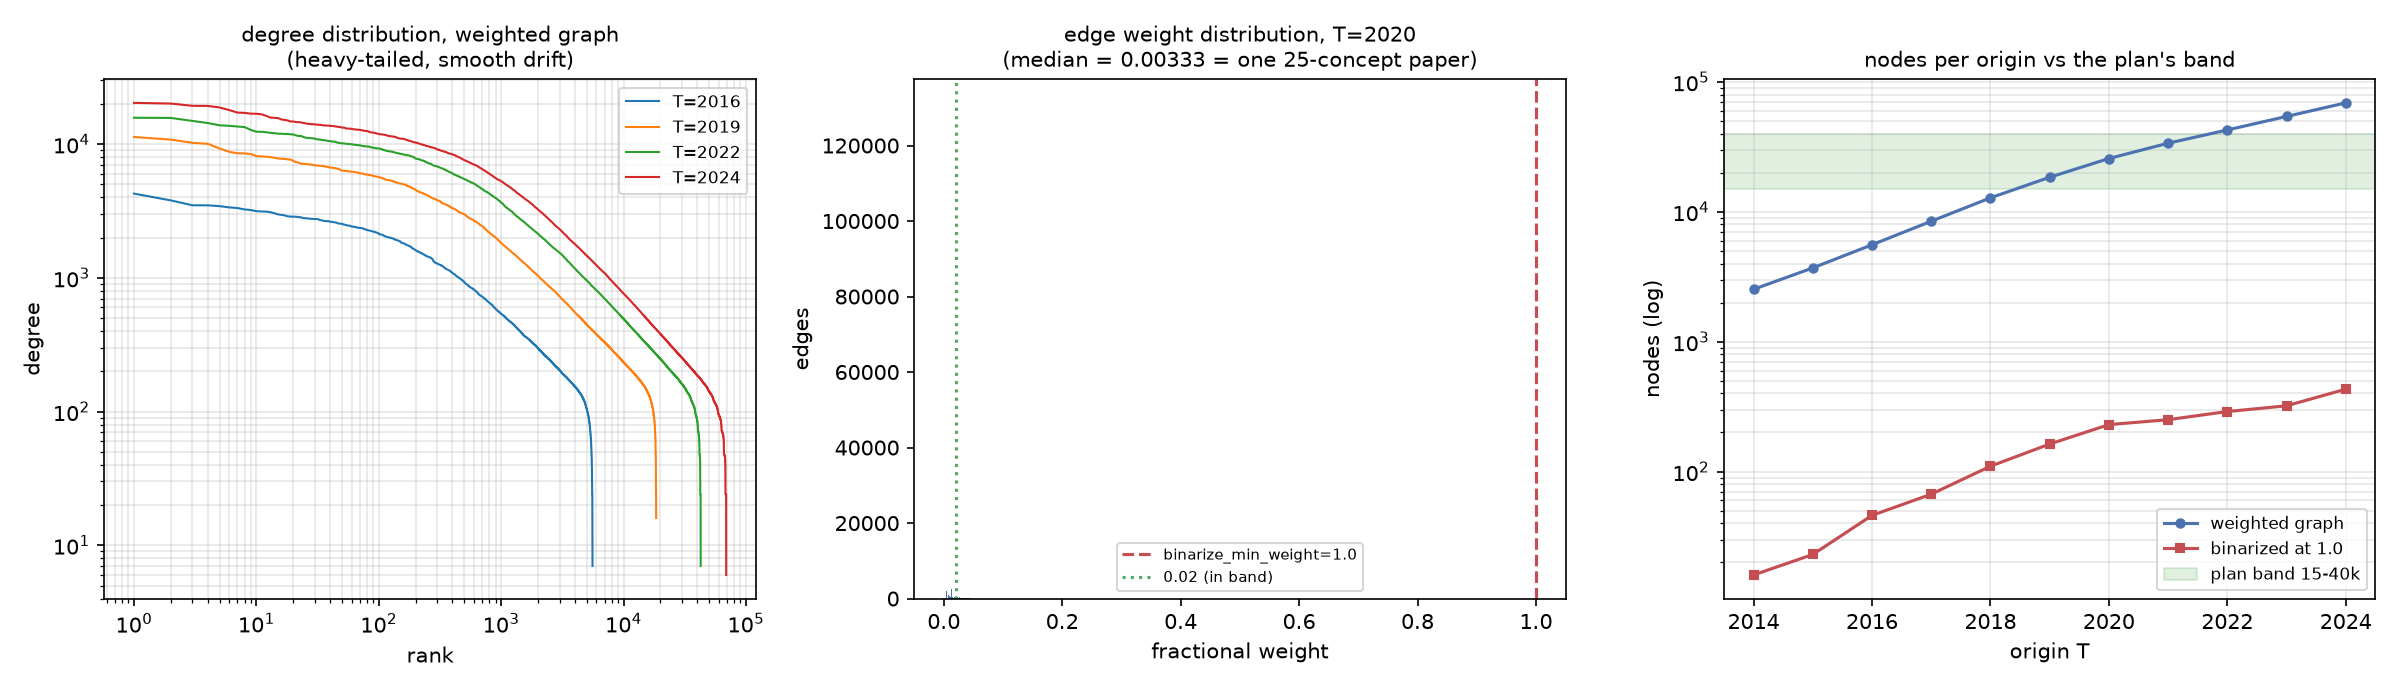
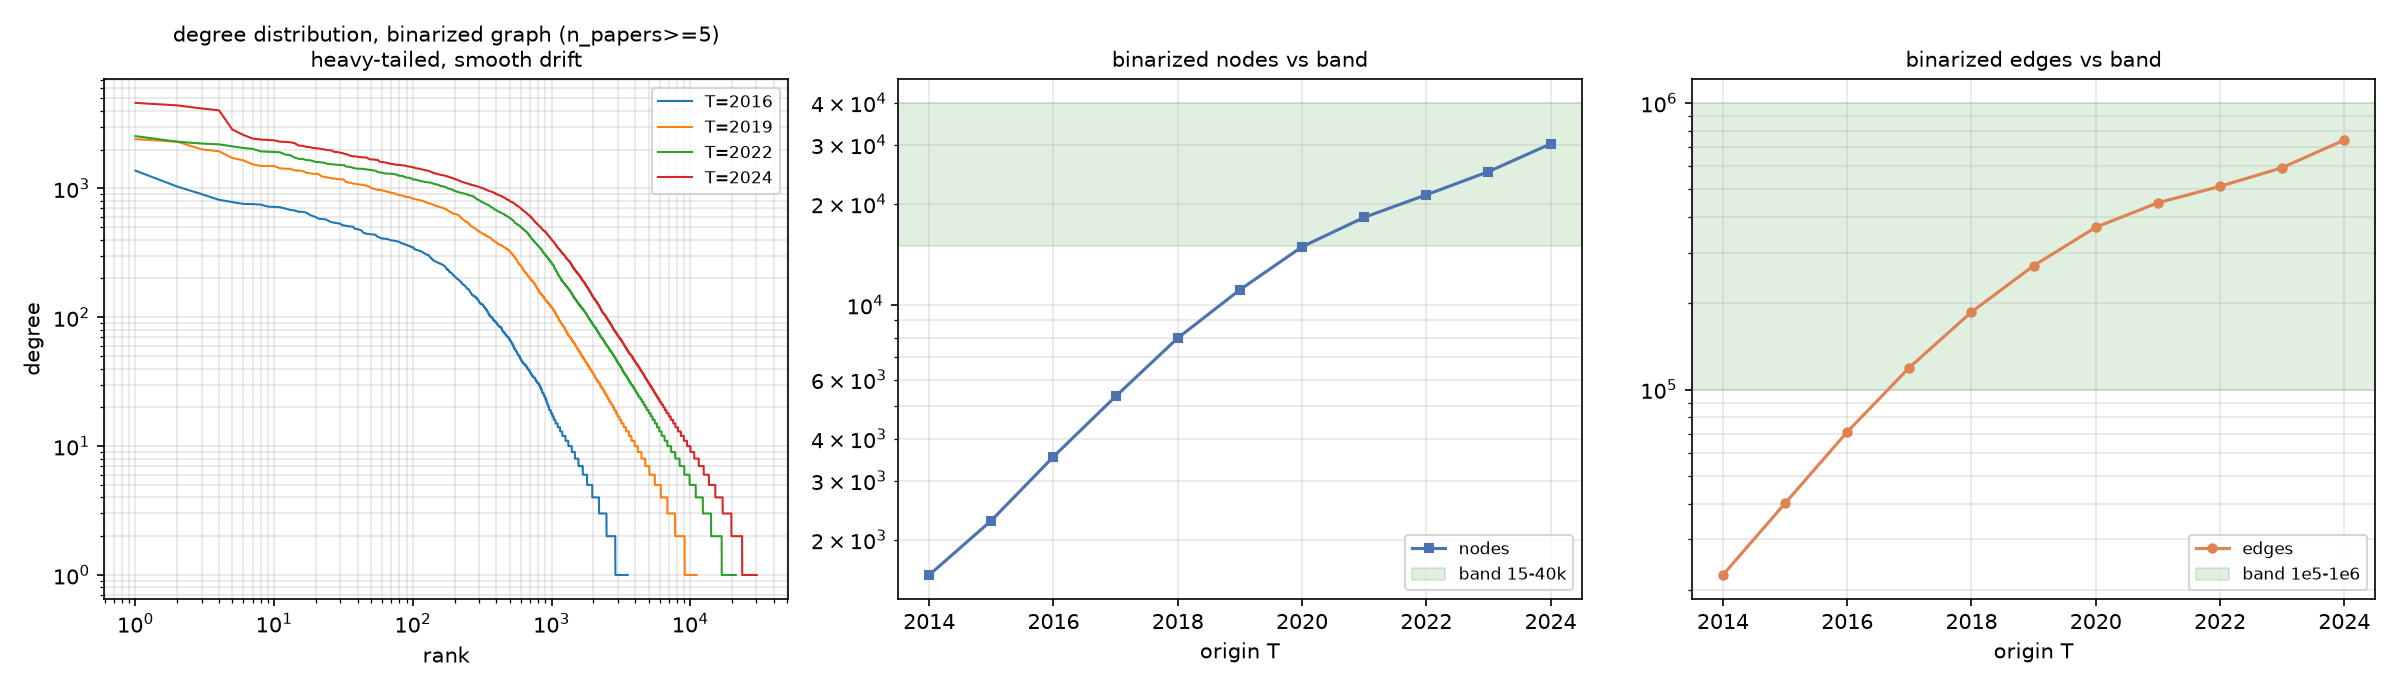
Apply Phase 5 gate decisions: n_papers>=5 binarization, containment edges suppressed
Binarization switched from a fractional-weight threshold to a scale-free
count rule. weight>=1.0 demanded ~300 co-occurrences because the median
paper spreads its 1.0 over C(25,2) pairs; n_papers>=5 says plainly that an
edge exists when five papers name both concepts, and does not need re-tuning
as concepts-per-paper drifts.

Containment edges suppressed: no edge between two concepts when one is a
contiguous sub-phrase of the other. Both stay as nodes and the paper's 1.0
redistributes over its genuine pairs, so the mass invariant is preserved
under redistribution -- verified at every origin, relative drift 0 to
1.7e-10 against a 1e-9 assert.

The fix is visible. Top neighbours of "object detection" were "detection"
and "object", its own sub-phrases; they are now detector, proposal, pascal,
box, coco, instance. The lexical family is gone and what remains is topical.

Binarized graph: 11,104 nodes / 270,350 edges at 2019 rising to 30,191 /
741,929 at 2024, giant component 99.2-99.6%. All Phase 5 accept criteria
pass, including the YOLO ego-net leakage check.

Edges are in band from T>=2017 and nodes from T>=2021; early origins fall
below both. Same T-dependence as Phase 3, recorded not acted on.

Claude-Session: https://claude.ai/code/session_01VB2BSGPdRsQqqCMBbYF272

diff --git a/src/graph/build.py b/src/graph/build.py
@@ -37,6 +37,17 @@ import pyarrow.parquet as pq
 sys.path.insert(0, str(Path(__file__).resolve().parent.parent.parent))
 from src.manifest import Manifest, load_config, log_event  # noqa: E402
 
+
+def _contains(a: str, b: str) -> bool:
+    """True when one phrase is a contiguous sub-phrase of the other.
+
+    Padding with spaces makes the test token-aligned, so `net` does not match
+    inside `network` but `neural network` does match inside `convolutional
+    neural network`.
+    """
+    pa, pb = f" {a} ", f" {b} "
+    return pa in pb or pb in pa
+
 EVENTS = "data/graphs/event_store.parquet"
 GDIR = Path("data/graphs")
 
@@ -113,8 +124,9 @@ def build_graph(con, cfg: dict, T: int) -> dict:
         f"SELECT count(*) FROM read_parquet('data/interim/papers.parquet') "
         f"WHERE v1_year BETWEEN {lo} AND {T}").fetchone()[0]
 
+    suppress = gc.get("suppress_containment_edges", False)
     edges: dict[tuple, list] = {}
-    n_capped = n_ge2 = 0
+    n_capped = n_ge2 = n_pairs_suppressed = n_all_nested = 0
     node_papers: dict[str, int] = {}
     for pid, concepts in per_paper.items():
         cs = concepts
@@ -128,9 +140,21 @@ def build_graph(con, cfg: dict, T: int) -> dict:
         k = len(cs)
         if k < 2:
             continue
+        pairs = list(combinations(sorted(cs), 2))
+        if suppress:
+            # A concept nested in another on the same paper co-occurs with it by
+            # construction, so that pair is evidence of nothing. Drop the pair,
+            # keep both nodes, and let the paper's 1.0 redistribute over what is
+            # left -- which preserves the mass invariant exactly.
+            before = len(pairs)
+            pairs = [(u, v) for u, v in pairs if not _contains(u, v)]
+            n_pairs_suppressed += before - len(pairs)
+            if not pairs:
+                n_all_nested += 1
+                continue
         n_ge2 += 1
-        share = 1.0 / (k * (k - 1) / 2)          # each paper spends exactly 1.0
-        for u, v in combinations(sorted(cs), 2):
+        share = 1.0 / len(pairs)                 # each paper spends exactly 1.0
+        for u, v in pairs:
             e = edges.get((u, v))
             if e is None:
                 edges[(u, v)] = [share, 1]
@@ -152,10 +176,14 @@ def build_graph(con, cfg: dict, T: int) -> dict:
         "n_papers": [n for _, n in edges.values()],
     }, schema=EDGE_SCHEMA), out, compression="zstd")
 
-    thr = gc["binarize_min_weight"]
-    bin_edges = sum(1 for w, _ in edges.values() if w >= thr)
-    bin_nodes = len({x for (u, v), (w, _) in zip(edges.keys(), edges.values())
-                     if w >= thr for x in (u, v)})
+    if gc.get("binarize_rule", "weight") == "n_papers":
+        thr = gc["binarize_min_papers"]
+        keep = [(uv, n >= thr) for uv, (w, n) in edges.items()]
+    else:
+        thr = gc["binarize_min_weight"]
+        keep = [(uv, w >= thr) for uv, (w, n) in edges.items()]
+    bin_edges = sum(1 for _, k in keep if k)
+    bin_nodes = len({x for (u, v), k in keep if k for x in (u, v)})
 
     stats = {
         "origin": T, "window": [lo, T],
@@ -164,6 +192,10 @@ def build_graph(con, cfg: dict, T: int) -> dict:
         "papers_with_2plus_concepts": n_ge2,
         "coverage_2plus": round(n_ge2 / n_papers_window, 4),
         "papers_capped": n_capped,
+        "containment_pairs_suppressed": n_pairs_suppressed,
+        "papers_all_pairs_nested": n_all_nested,
+        "binarize_rule": gc.get("binarize_rule", "weight"),
+        "binarize_threshold": thr,
         "vocab_T_nodes": len(vocab),
         "nodes_in_graph": len(node_papers),
         "edges_weighted": len(edges),
@@ -177,7 +209,8 @@ def build_graph(con, cfg: dict, T: int) -> dict:
                            "data/interim/merge_map.parquet"],
                    cfg=cfg, params={k: gc[k] for k in
                                     ("graph_window", "max_concepts_per_paper",
-                                     "cap_keeps", "weighting", "binarize_min_weight")},
+                                     "cap_keeps", "weighting", "binarize_rule",
+                                     "binarize_min_papers", "suppress_containment_edges")},
                    stats=stats).write(out)
     if n_capped:
         log_event("logs/flags.jsonl", {

diff --git a/reports/phase5_graphs.md b/reports/phase5_graphs.md
@@ -111,3 +111,75 @@ normally would, and it is applied *after* nesting inflates the count — so it i
 often discarding genuine concepts in order to keep sub-phrases of others. Fixing
 decision 2 would relieve this substantially. All capping is logged and applies to
 the projection layer only; the event store is untouched.
+
+---
+
+# Decisions applied (2026-08-19)
+
+**Binarization: `n_papers >= 5`.** An edge exists when at least five papers name
+both concepts. Scale-free and independent of concepts-per-paper, which is what
+broke the weight threshold.
+
+**Containment edges suppressed.** No edge is created between two concepts when
+one is a contiguous sub-phrase of the other. Both remain nodes; the paper's 1.0
+mass redistributes over its genuine pairs.
+
+## Result
+
+| T | weighted nodes | binarized nodes | binarized edges | giant share |
+|---:|---:|---:|---:|---:|
+| 2016 | 5,576 | 3,536 | 71,154 | — |
+| 2019 | 18,461 | 11,104 | 270,350 | 99.6% |
+| 2021 | 33,753 | 18,243 | 448,076 | — |
+| 2022 | 42,683 | 21,292 | 511,373 | 99.3% |
+| 2024 | 69,007 | 30,191 | 741,929 | 99.2% |
+
+Containment suppression removed 18,218 pairs at T=2014 rising to 955,052 at
+T=2024. Exactly one paper (at T=2017, 2018, 2019) had *every* pair nested and so
+contributes no edges at all; those are counted separately and excluded from the
+mass denominator.
+
+**The mass invariant holds at every origin**, with redistribution: relative drift
+ranges from 0 to 1.66×10⁻¹⁰, well inside the 10⁻⁹ assert. (Two checks in this
+report initially reported failures that were an absolute 10⁻⁶ tolerance applied
+to a sum of order 10⁵ — the same mistake the build's own assert had before it
+was made relative. The invariant was never violated.)
+
+## The containment fix is visible in the graph
+
+Top-weighted neighbours of `object detection`, before and after:
+
+| | neighbours |
+|---|---|
+| before | **detection, object**, detector, object detector, image |
+| T=2017 after | detector, proposal, pascal, image, box, cnn, network, map |
+| T=2020 after | detector, object detector, image, box, instance, coco, scene |
+| T=2023 after | detector, object detector, computer vision, box, code, vision |
+
+The lexical family is gone and what remains is topical: detectors, region
+proposals, PASCAL and COCO, bounding boxes. `object detector` survives as a
+neighbour because neither phrase contains the other — a real association, not a
+containment artefact.
+
+## Band status — the same shape as Phase 3
+
+| | in band |
+|---|---|
+| edges (10⁵–10⁶) | T ≥ 2017 |
+| nodes (15–40k) | T ≥ 2021 |
+
+Early origins fall below on both counts. This is the Phase 3 pattern repeating:
+the plan's bands are single ranges, but graph size is a function of T tracking a
+corpus that grows 19× across the period, so no fixed rule can be in band at both
+ends. The Phase 3 band was recalibrated to a per-origin curve for exactly this
+reason and the same treatment applies here — recorded rather than acted on,
+since the band is the PI's.
+
+## Accept criteria
+
+- yearly degree distributions heavy-tailed with smooth drift — **pass**
+- giant-component share — **pass** (99.2–99.6%)
+- fraction of papers with <2 vocabulary concepts — **pass** (coverage 100%)
+- ego-net of `object detection`, YOLO only in views T ≥ 2016 — **pass**
+  (`yolo` has zero edges through T=2016, first appears T=2017)
+- mass invariant — **pass** at every origin
